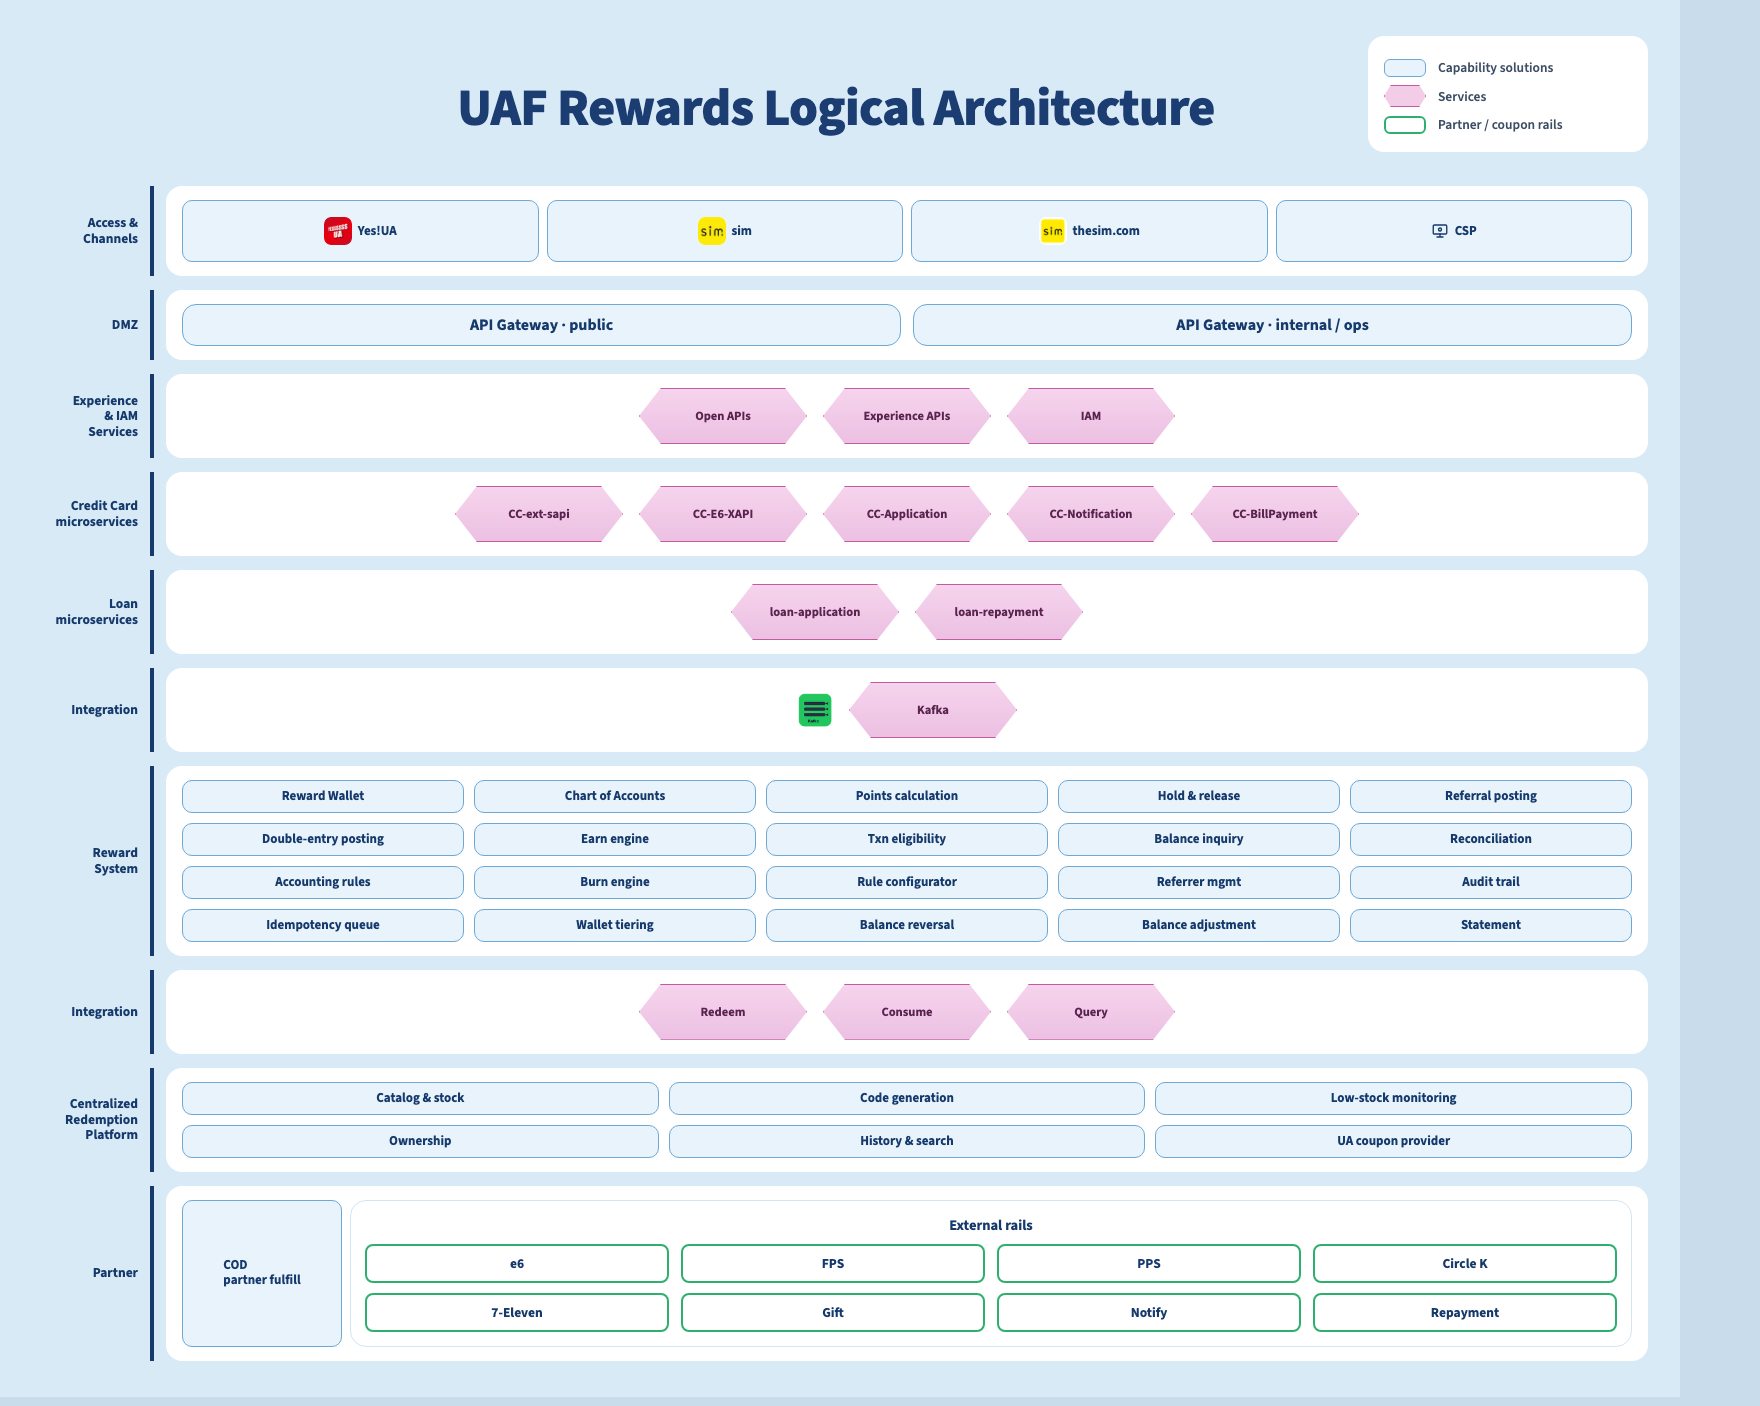
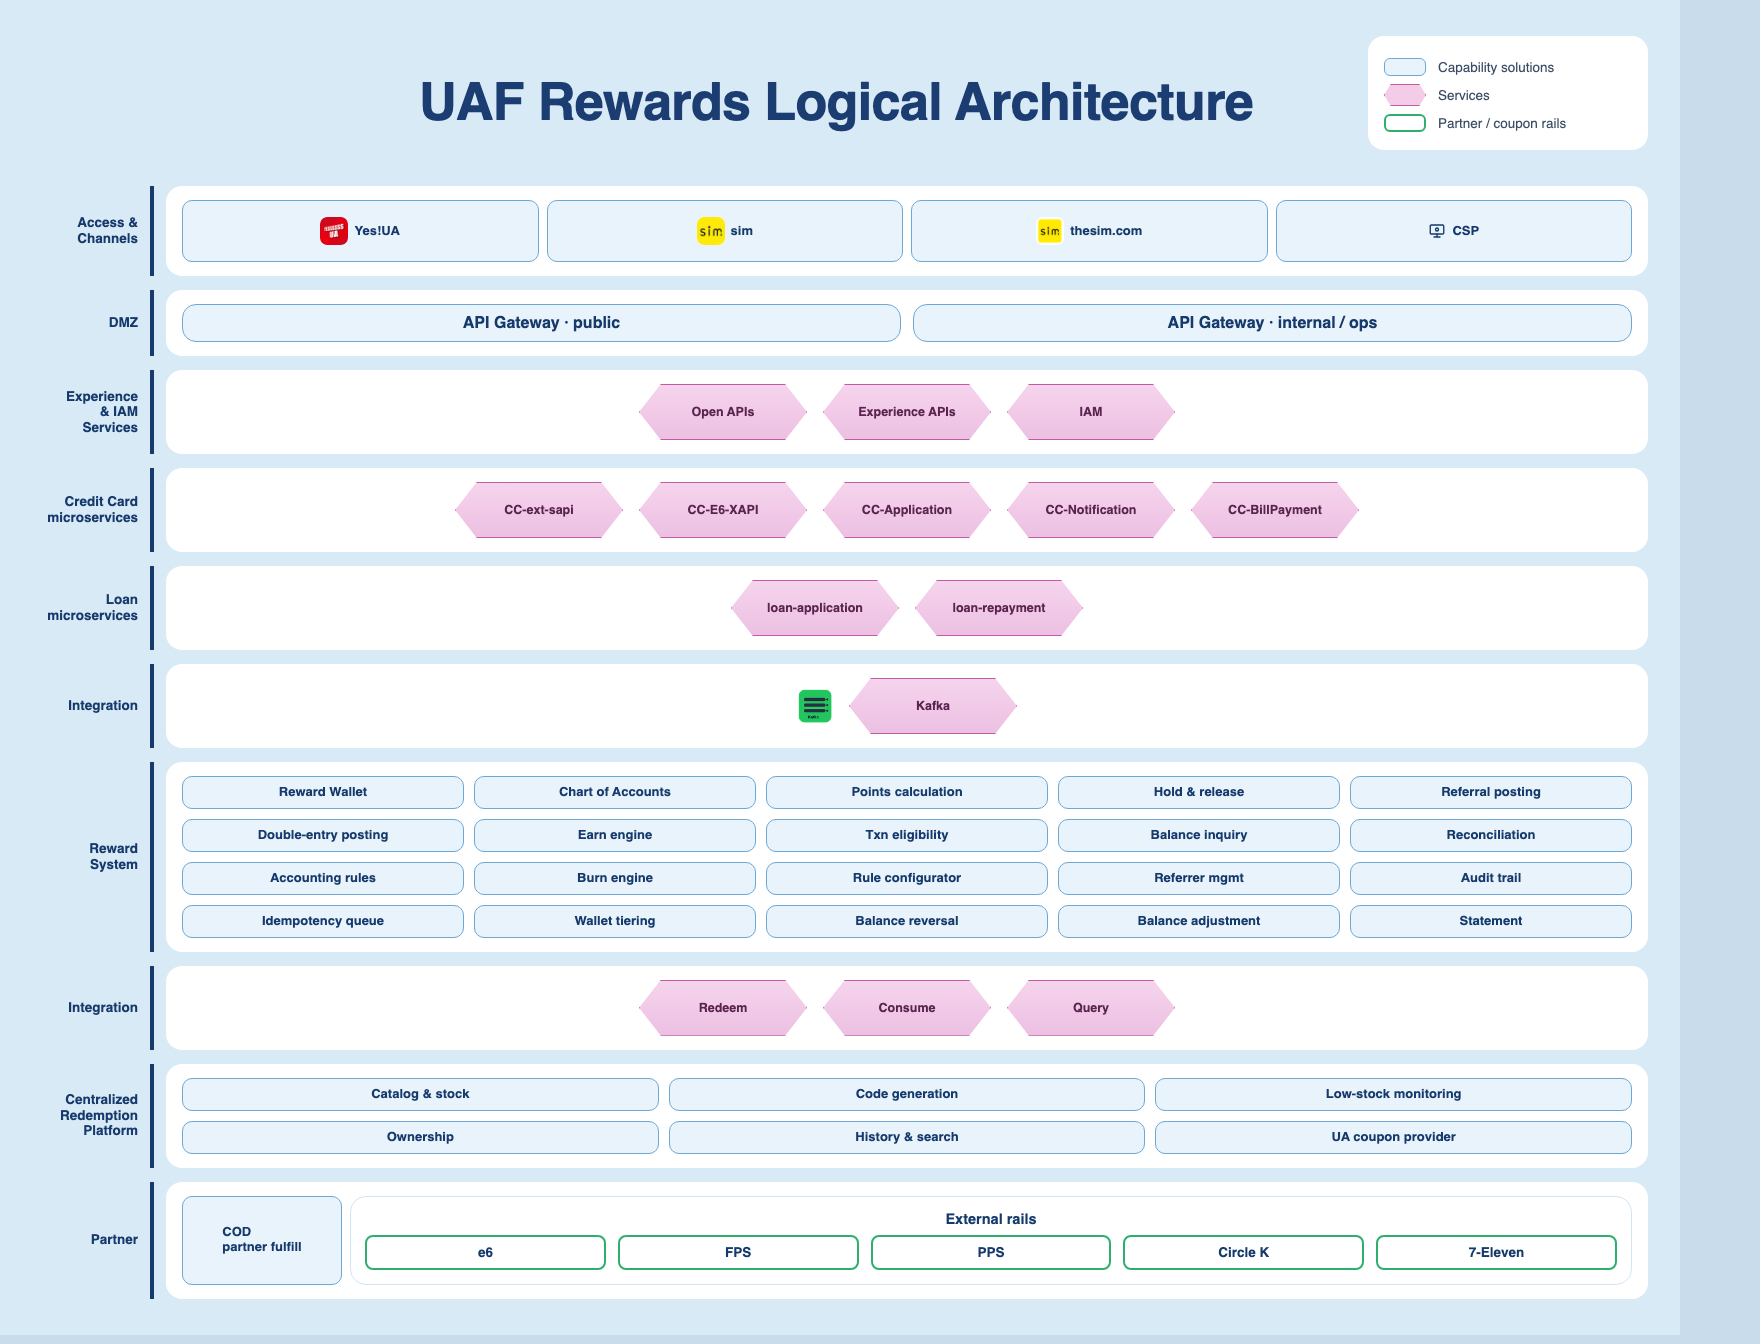
docs(decks): drop Gift, Notify, Repayment from partner rails

diff --git a/docs/decks/uaf-rewards-logical-architecture.html b/docs/decks/uaf-rewards-logical-architecture.html
@@ -44,7 +44,7 @@
   .grow{flex:1;min-width:0}
   .hexrow{display:flex;justify-content:center;gap:16px;align-items:center;flex-wrap:wrap}
   .hexrow .svc{width:168px;min-height:56px}
-  .rails{display:grid;grid-template-columns:repeat(4,1fr);gap:10px 12px}
+  .rails{display:grid;grid-template-columns:repeat(5,1fr);gap:10px 12px}
   .gwrow{display:grid;grid-template-columns:1fr 1fr;gap:12px}
   .crp{display:grid;grid-template-columns:1fr 1fr;gap:12px}
   .ch .cap{flex:1;min-height:62px}
@@ -195,9 +195,6 @@
           <div class="pay">PPS</div>
           <div class="pay">Circle K</div>
           <div class="pay">7-Eleven</div>
-          <div class="pay">Gift</div>
-          <div class="pay">Notify</div>
-          <div class="pay">Repayment</div>
         </div>
       </div>
     </div>
